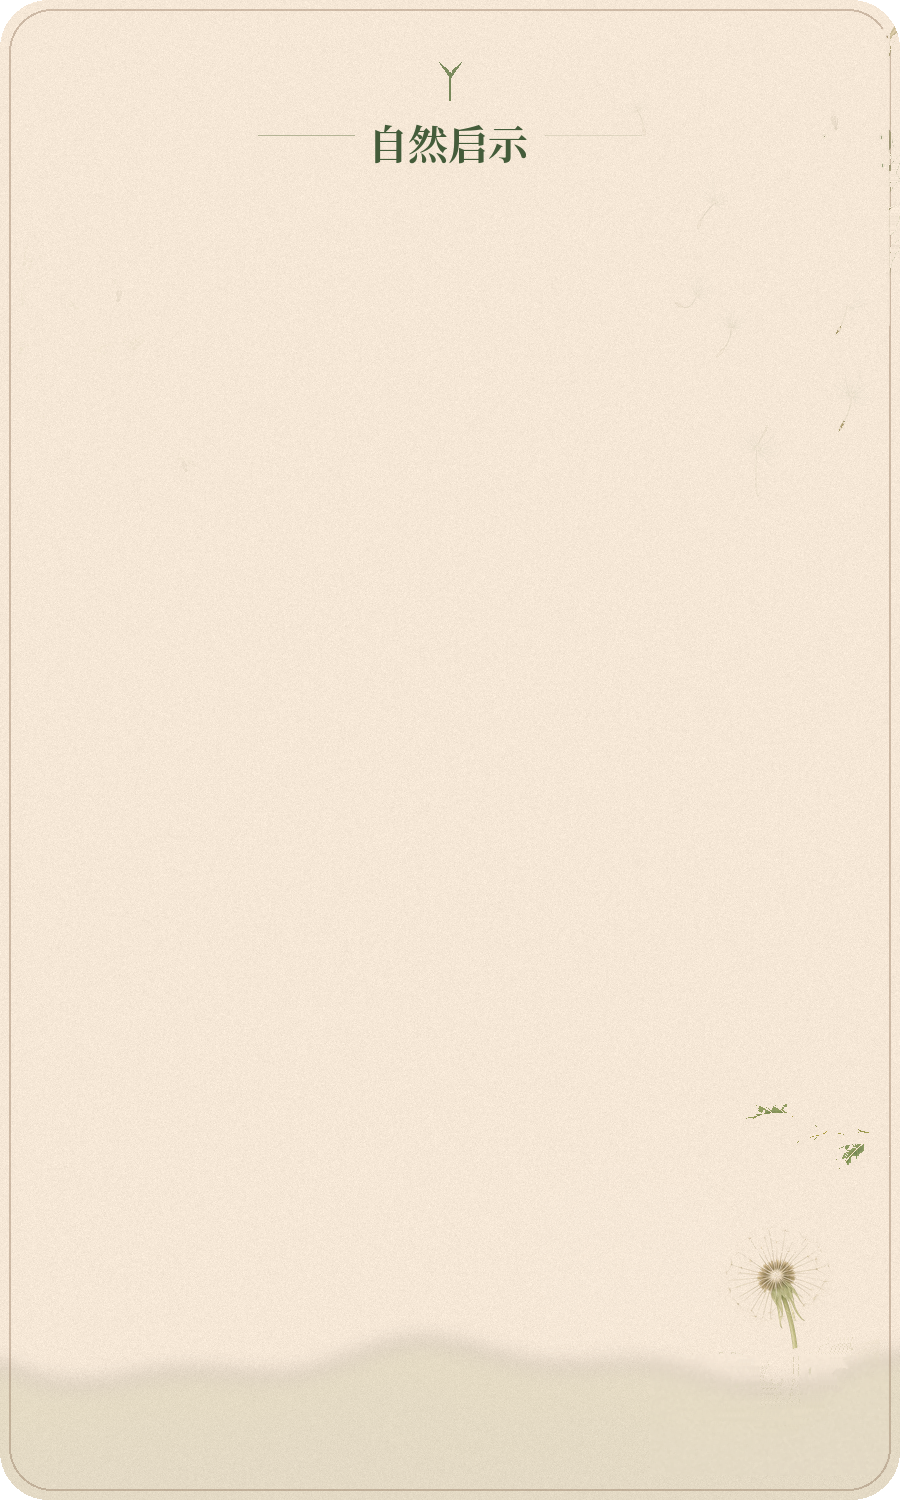
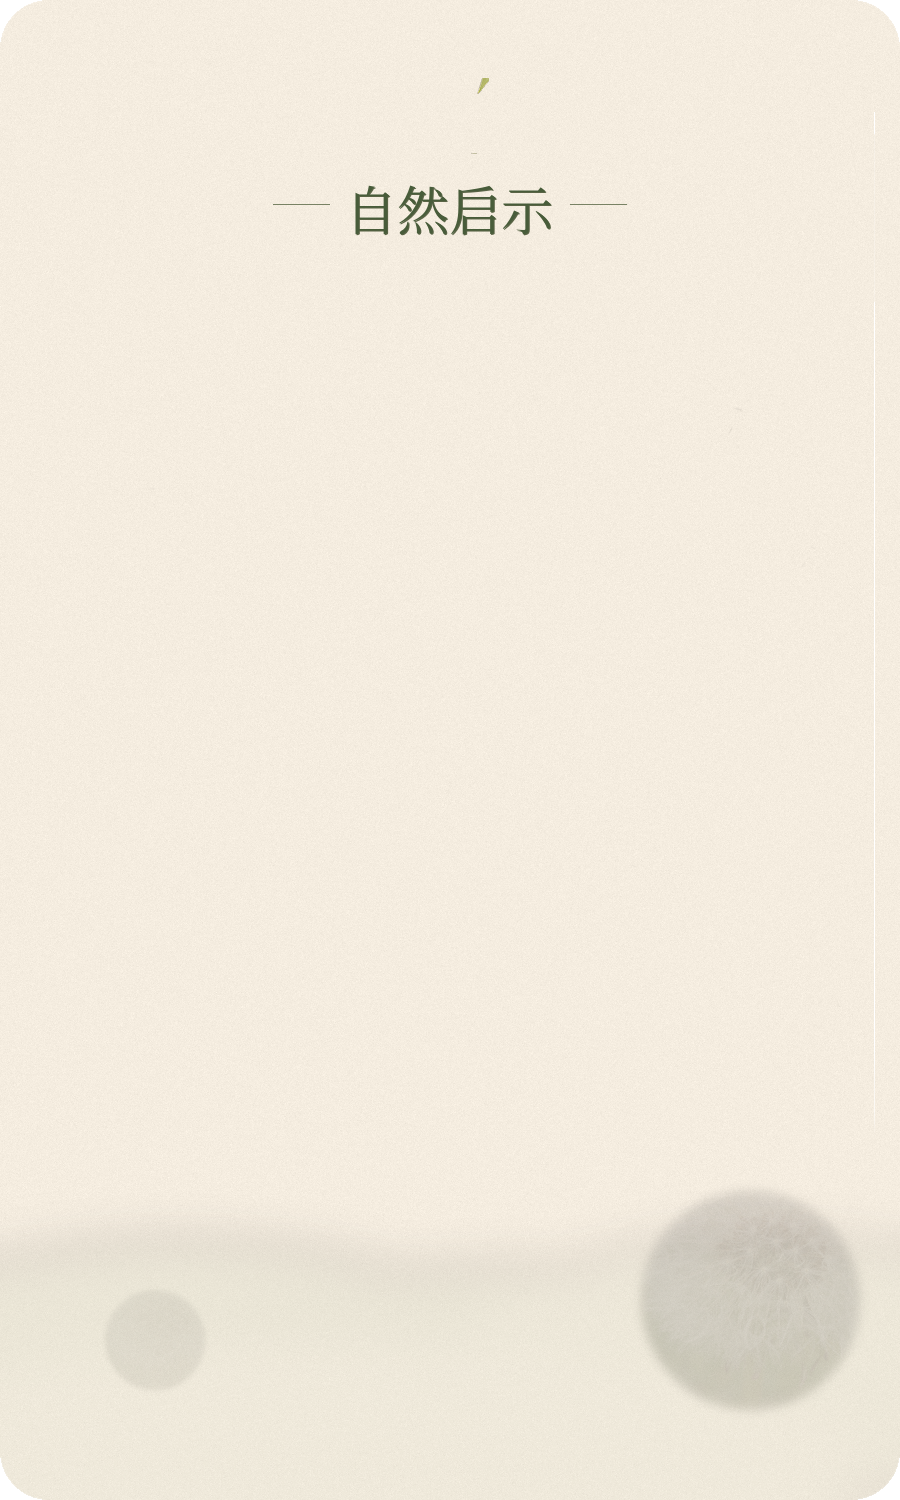
Replace dandelion cards with the soft v4 artwork.
Overwrite the English and Chinese front and back PNGs with the new 900x1500 transparent files.

diff --git a/assets/今日花语卡/README.md b/assets/今日花语卡/README.md
@@ -13,4 +13,4 @@
 
 中文文件名是对应英文文件的完整副本，可直接下载使用。
 
-蒲公英这一组保留柔软的白色绒球。锯齿叶片已去掉，只留很少的飞絮；背面是大面积留白，点缀一只轻的绒球。
+蒲公英这一组是柔软绒球版本：正面没有锯齿叶片；背面大面积留白，只有两团很轻的绒球。
